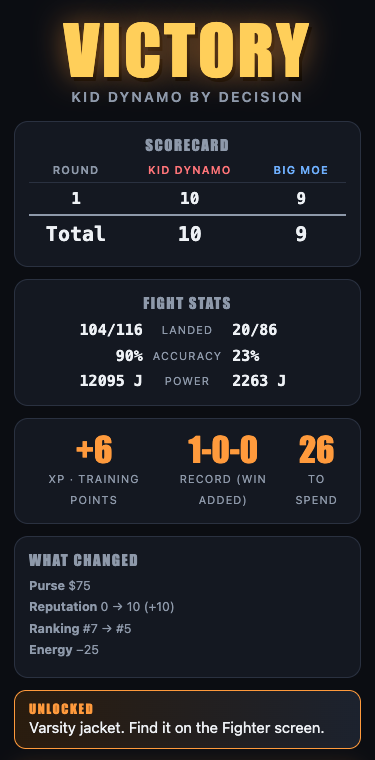
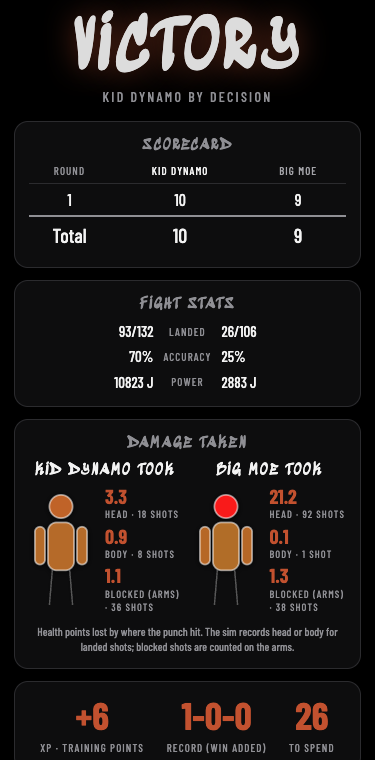
Sync with claude-quest main (BOX-14 slice 1)

diff --git a/index.html b/index.html
@@ -3,7 +3,7 @@
 <head>
 <meta charset="utf-8">
 <meta name="viewport" content="width=device-width, initial-scale=1, viewport-fit=cover">
-<meta name="theme-color" content="#0b0d12">
+<meta name="theme-color" content="#000">
 <meta name="apple-mobile-web-app-capable" content="yes">
 <title>Bring The Ruckus</title>
 <!--
@@ -145,10 +145,10 @@
 
   /* ── Upgrade ── */
   .points-big { text-align: center; padding: 6px 0 14px; }
-  .points-big b { display: block; font: 400 64px/1 var(--display); color: var(--accent); }
+  .points-big b { display: block; font: 700 68px/1 var(--body); color: var(--accent); }
   .urow { display: grid; grid-template-columns: 1fr auto; gap: 4px 12px; align-items: center; padding: 12px 0; border-bottom: 1px solid var(--line); }
   .urow .nm { font: 400 20px var(--display); letter-spacing: .08em; text-transform: uppercase; }
-  .urow .nm span { font: 600 18px var(--mono); color: var(--accent); margin-left: 8px; }
+  .urow .nm span { font: 700 20px var(--body); color: var(--accent); margin-left: 8px; }
   .urow .fx { grid-column: 1; font-size: 12px; color: var(--muted); }
   .urow .bar { grid-column: 1; }
   .urow .btns { grid-column: 2; grid-row: 1 / span 3; display: flex; gap: 8px; }
@@ -178,7 +178,7 @@
   .side { display: grid; gap: 4px; }
   .side.blue { text-align: right; }
   .side .nm { font: 400 19px/1 var(--display); letter-spacing: .07em; text-transform: uppercase; text-shadow: 0 2px 4px #000; white-space: nowrap; overflow: hidden; text-overflow: ellipsis; }
-  .side.red .nm { color: #ff7478; } .side.blue .nm { color: #6fb0ff; }
+  .side.red .nm { color: #f3f3f3; } .side.blue .nm { color: #b4b4b9; }
   .vit { display: flex; align-items: center; gap: 7px; }
   .side.blue .vit { flex-direction: row-reverse; }
   .vit .bars { flex: 1; min-width: 0; display: grid; gap: 4px; }
@@ -193,7 +193,7 @@
   .dmg-grid .who { font: 400 15px var(--display); letter-spacing: .1em; text-transform: uppercase; margin-bottom: 6px; }
   .dmg-fig { display: flex; align-items: center; justify-content: center; gap: 12px; }
   .dmg-list { display: grid; gap: 5px; text-align: left; font-size: 12.5px; }
-  .dmg-list b { font: 400 17px/1 var(--display); color: var(--accent); margin-right: 4px; }
+  .dmg-list b { font: 700 20px/1 var(--body); color: var(--accent); margin-right: 4px; }
   .dmg-list span { display: block; font-size: 10.5px; letter-spacing: .1em; text-transform: uppercase; color: var(--muted); }
   .dmg-note { margin: 10px 0 0; font-size: 11.5px; color: var(--muted); }
   .meter { position: relative; height: 12px; background: rgba(0,0,0,.6); border: 1px solid rgba(255,255,255,.25); border-radius: 3px; overflow: hidden; transform: skewX(-14deg); }
@@ -228,20 +228,20 @@
   #s-result .scroll { padding-top: calc(var(--top) + 18px); text-align: center; }
   .verdict { font: 400 clamp(56px, 18vw, 92px)/.95 var(--display); letter-spacing: .04em; text-transform: uppercase; margin: 0; opacity: 0; animation: pop .55s cubic-bezier(.2,1.4,.4,1) forwards; animation-delay: var(--vd, 0s); }
   .verdict.w { color: var(--accent-2); text-shadow: 0 0 30px rgba(194,81,47,.5), 3px 4px 0 #000; }
-  .verdict.l { color: #ff6b6b; text-shadow: 3px 4px 0 #000; } .verdict.d { color: #c7d0de; text-shadow: 3px 4px 0 #000; }
+  .verdict.l { color: var(--accent); text-shadow: 3px 4px 0 #000; } .verdict.d { color: #c7d0de; text-shadow: 3px 4px 0 #000; }
   .method { font: 600 14px var(--body); letter-spacing: .16em; text-transform: uppercase; color: var(--muted); margin: 6px 0 16px; opacity: 0; animation: fade .4s forwards; animation-delay: var(--vd, 0s); }
   @keyframes pop { from { opacity: 0; transform: scale(1.7) rotate(-4deg); } to { opacity: 1; transform: none; } }
   @keyframes fade { to { opacity: 1; } }
   .cardtbl { width: 100%; border-collapse: collapse; font: 600 16px var(--mono); }
   .cardtbl th { font: 600 11px var(--body); letter-spacing: .1em; text-transform: uppercase; color: var(--muted); padding-bottom: 6px; }
-  .cardtbl th.r { color: #ff7478; } .cardtbl th.b { color: #6fb0ff; }
+  .cardtbl th.r { color: #f3f3f3; } .cardtbl th.b { color: #a4a4a9; }
   .cardtbl td { padding: 6px 0; border-top: 1px solid var(--line); opacity: 0; animation: fade .35s forwards; animation-delay: calc(var(--i) * .55s); }
   .cardtbl tr.tot td { font-size: 20px; border-top: 2px solid var(--muted); animation-delay: calc(var(--i) * .55s + .3s); }
   .stat2 { display: grid; grid-template-columns: 1fr auto 1fr; gap: 6px 10px; font-size: 14px; align-items: center; }
   .stat2 b { font: 600 15px var(--mono); } .stat2 span:nth-child(3n+2) { color: var(--muted); font-size: 11px; letter-spacing: .1em; text-transform: uppercase; }
   .stat2 span:nth-child(3n+1) { text-align: right; } .stat2 span:nth-child(3n) { text-align: left; }
   .reward { display: flex; justify-content: space-around; text-align: center; }
-  .reward b { display: block; font: 400 34px/1 var(--display); color: var(--accent); }
+  .reward b { display: block; font: 700 38px/1 var(--body); color: var(--accent); }
   .reward span { font-size: 11px; letter-spacing: .1em; text-transform: uppercase; color: var(--muted); }
   .unlock { background: linear-gradient(90deg, #2a1c0e, #1c222e); border: 1px solid var(--accent); border-radius: 12px; padding: 10px 14px; margin-bottom: 8px; text-align: left; }
   .unlock b { color: var(--accent); font: 400 13px var(--display); letter-spacing: .12em; text-transform: uppercase; display: block; }
@@ -249,17 +249,17 @@
 
   /* ── Career ── */
   .stat-line { display: flex; justify-content: space-between; gap: 8px; text-align: center; }
-  .stat-line b { display: block; font: 400 26px/1 var(--display); color: var(--accent); }
+  .stat-line b { display: block; font: 700 30px/1 var(--body); color: var(--accent); }
   .stat-line span { font-size: 10.5px; letter-spacing: .1em; text-transform: uppercase; color: var(--muted); }
   .energy { height: 10px; border-radius: 5px; background: var(--panel-2); overflow: hidden; margin: 12px 0 6px; }
-  .energy i { display: block; height: 100%; background: linear-gradient(90deg, #d9a12b, #3fb950); }
+  .energy i { display: block; height: 100%; background: linear-gradient(90deg, #8f8f94, #f3f3f3); }
   .cond { font-size: 12.5px; color: var(--muted); } .cond.bad { color: #ff9a7a; }
   .week-h { display: flex; justify-content: space-between; align-items: baseline; margin: 16px 0 8px; font: 400 15px var(--display); letter-spacing: .1em; text-transform: uppercase; color: var(--muted); }
   .offer { display: grid; grid-template-columns: 64px 1fr auto; gap: 12px; align-items: center; width: 100%; text-align: left; padding: 10px; margin-bottom: 10px; background: var(--panel); border: 2px solid var(--line); border-radius: 14px; min-height: 84px; }
   .offer .avatar { width: 64px; height: 64px; font-size: 32px; }
   .offer .nm { font: 400 20px/1.1 var(--display); letter-spacing: .06em; text-transform: uppercase; }
   .offer .meta { font-size: 12px; color: var(--muted); }
-  .offer .purse { font: 400 22px var(--display); color: var(--accent-2); text-align: right; }
+  .offer .purse { font: 700 26px var(--body); color: var(--accent-2); text-align: right; }
   .offer.rival { border-color: var(--red); }
   .tagpill { display: inline-block; font: 700 9px var(--body); letter-spacing: .1em; padding: 2px 7px; border-radius: 999px; background: var(--red); color: #fff; margin-left: 6px; vertical-align: middle; text-transform: uppercase; }
   .tagpill.gold { background: var(--accent); color: #1b1004; }
@@ -276,9 +276,9 @@
   .poster .avatar { width: min(34vw, 130px); height: min(34vw, 130px); margin: 0 auto 8px; font-size: 56px; }
   .poster .nm { font: 400 22px/1.1 var(--display); letter-spacing: .05em; text-transform: uppercase; }
   .poster .rec { font: 600 13px var(--mono); color: var(--muted); }
-  .poster .purse-big { font: 400 54px/1 var(--display); color: var(--accent-2); margin: 18px 0 2px; }
+  .poster .purse-big { font: 700 64px/1 var(--body); color: var(--accent-2); margin: 18px 0 2px; }
   .drill-bar { position: relative; height: 64px; border-radius: 12px; border: 2px solid var(--line); overflow: hidden; margin: 14px 0;
-    background: linear-gradient(90deg, #2b1a1a 0, #2b1a1a 15%, #3a3417 15%, #3a3417 32.5%, #6b5a1d 32.5%, #6b5a1d 44%, #d9a12b 44%, #d9a12b 56%, #6b5a1d 56%, #6b5a1d 67.5%, #3a3417 67.5%, #3a3417 85%, #2b1a1a 85%); }
+    background: linear-gradient(90deg, #2b1a1a 0, #2b1a1a 15%, #3a3417 15%, #3a3417 32.5%, #3c3c40 32.5%, #3c3c40 44%, #d9a12b 44%, #d9a12b 56%, #3c3c40 56%, #3c3c40 67.5%, #3a3417 67.5%, #3a3417 85%, #2b1a1a 85%); }
   .drill-bar .mk { position: absolute; top: 0; bottom: 0; width: 6px; margin-left: -3px; background: #fff; box-shadow: 0 0 10px #fff; }
   .bag { width: 74px; height: 130px; margin: 6px auto 0; border-radius: 22px; background: linear-gradient(90deg, #5b1d1d, #a73535 45%, #5b1d1d); border: 2px solid #2a0d0d; position: relative; transform-origin: 50% -30px; }
   .bag::before { content: ''; position: absolute; left: 50%; top: -36px; width: 3px; height: 36px; background: #777; }
@@ -847,13 +847,13 @@ $('camp-reset').onclick = () => { state.pending = null; renderUpgrade(); };
 // ─── Opponents ──────────────────────────────────────────────────────────────
 
 const ARCHETYPES = {
-  slugger:    { name: 'Iron Mauler',   style: 'Heavy hands, slow feet. One shot changes the night.', stats: { speed: 38, power: 82, stamina: 55, ringIQ: 42 }, tint: '#6b1d22',
+  slugger:    { name: 'Iron Mauler',   style: 'Heavy hands, slow feet. One shot changes the night.', stats: { speed: 38, power: 82, stamina: 55, ringIQ: 42 }, tint: '#4a4a4e',
     look: { topStyle: 'tank', top: '#16171a', jeans: '#1d1e22', boots: 'timbs', cap: null, chain: true, wraps: '#16171a', skin: 'deep' } },
-  speedster:  { name: 'Quicksilver',   style: 'Flurries from every angle. Hard to catch.', stats: { speed: 84, power: 40, stamina: 60, ringIQ: 55 }, tint: '#6b5a1d',
+  speedster:  { name: 'Quicksilver',   style: 'Flurries from every angle. Hard to catch.', stats: { speed: 84, power: 40, stamina: 60, ringIQ: 55 }, tint: '#3c3c40',
     look: { topStyle: 'tee', top: '#c9a227', jeans: '#2f3b52', boots: 'sneakers', cap: '#16171a', capBackwards: false, chain: false, wraps: '#ecebe6', skin: 'medium' } },
-  technician: { name: 'The Professor', style: 'Reads you like a book and counters everything.', stats: { speed: 58, power: 50, stamina: 52, ringIQ: 82 }, tint: '#1d3a6b',
+  technician: { name: 'The Professor', style: 'Reads you like a book and counters everything.', stats: { speed: 58, power: 50, stamina: 52, ringIQ: 82 }, tint: '#58585d',
     look: { topStyle: 'hoodie', top: '#8a8f96', jeans: '#4f6b8f', boots: 'sneakers', cap: null, chain: false, wraps: '#2f6fd0', skin: 'light' } },
-  grinder:    { name: 'Diesel Dean',   style: 'Never tires. Wears you down in the late rounds.', stats: { speed: 48, power: 55, stamina: 85, ringIQ: 45 }, tint: '#1d5a3a',
+  grinder:    { name: 'Diesel Dean',   style: 'Never tires. Wears you down in the late rounds.', stats: { speed: 48, power: 55, stamina: 85, ringIQ: 45 }, tint: '#2f2f33',
     look: { topStyle: 'varsity', top: '#3d5a3a', sleeve: '#c9c6bf', jeans: '#2f3b52', boots: 'timbs', cap: '#3d5a3a', capBackwards: true, chain: true, wraps: '#d9a12b', skin: 'medium' } },
 };
 const opponentOf = (key) => (key === 'mirror'
@@ -869,7 +869,7 @@ function renderOpponents() {
       bar.firstChild.style.width = `${o.stats[s]}%`;
       return el('div', { className: 'mini' }, el('span', { textContent: STAT_LABEL[s] }), bar);
     });
-    const avatar = el('div', { className: 'avatar', style: `background:linear-gradient(160deg, ${o.tint}, #0b0d12)` }, o.name[0]);
+    const avatar = el('div', { className: 'avatar', style: `background:linear-gradient(160deg, ${o.tint}, #000)` }, o.name[0]);
     return el('button', { className: 'opp', type: 'button', ariaPressed: String(state.opp === k), onclick: () => { state.opp = k; sfx.click(); renderOpponents(); } },
       avatar,
       el('div', {}, el('div', { className: 'nm', textContent: o.name }), el('div', { className: 'style', textContent: o.style }), ...mini));
@@ -1167,8 +1167,8 @@ function damageCard(r) {
 // ─── Career ─────────────────────────────────────────────────────────────────
 
 const money = (n) => `$${n.toLocaleString('en-US')}`;
-const portrait = (o) => el('div', { className: 'avatar', style: `background:linear-gradient(160deg, ${LOOK_TINT[o.arch] ?? '#4a4a55'}, #0b0d12)` }, o.name[0]);
-const LOOK_TINT = { slugger: '#6b1d22', speedster: '#6b5a1d', technician: '#1d3a6b', grinder: '#1d5a3a' };
+const portrait = (o) => el('div', { className: 'avatar', style: `background:linear-gradient(160deg, ${LOOK_TINT[o.arch] ?? '#4a4a55'}, #000)` }, o.name[0]);
+const LOOK_TINT = { slugger: '#4a4a4e', speedster: '#3c3c40', technician: '#58585d', grinder: '#2f2f33' };
 const saveCareer = () => db.saveFighter(state.fighter).then(() => { state.hasSaved = true; });
 
 function offerButton(o) {
@@ -1241,7 +1241,7 @@ function renderCard() {
     el('div', { className: 'tier', textContent: `${o.tierName}${o.title ? ' · title fight' : ''}${o.rival ? ' · rematch' : ''}` }),
     el('div', { className: 'venue', textContent: `${o.venue} · ${o.rounds} round${o.rounds > 1 ? 's' : ''}` }),
     el('div', { className: 'vs' },
-      el('div', {}, el('div', { className: 'avatar', style: 'background:linear-gradient(160deg,#6b1d22,#0b0d12)' }, state.fighter.name[0]), el('div', { className: 'nm', textContent: state.fighter.name }), el('div', { className: 'rec', textContent: recordText(state.fighter.record) })),
+      el('div', {}, el('div', { className: 'avatar', style: 'background:linear-gradient(160deg,#3a2220,#000)' }, state.fighter.name[0]), el('div', { className: 'nm', textContent: state.fighter.name }), el('div', { className: 'rec', textContent: recordText(state.fighter.record) })),
       el('b', { textContent: 'VS' }),
       el('div', {}, portrait(o), el('div', { className: 'nm', textContent: o.name }), el('div', { className: 'rec', textContent: `${o.record.w}-${o.record.l}-0` }))),
     el('div', { className: 'purse-big', textContent: money(o.purse) }),

diff --git a/HANDOFF.md b/HANDOFF.md
@@ -343,3 +343,6 @@ User style direction applied to the whole UI. Sedgwick Ave Display (graffiti: lo
 ## Done (2026-10-04): damage on screen, BOX-9 first slice (Boxing UI Dev)
 The sim records only `target` ('head'/'body') and `outcome` per punch (the `ZONE` in `physics-engine.js` is the ropes zone), so no sim change: zones are derived from those. Landed head shots -> head, landed body shots -> body, blocked shots -> arms ("Blocked"); slips hit nothing. `flow.js`: `zoneOf`, `emptyDamage`, `recordDamage`, `zoneHeat` (pure, tested). `index.html`: `silhouette()` / `paintSilhouette()`; each fighter's HUD has a small figure beside the bars whose zones tint amber to red and pulse on each hit (listens to `impact`, never writes the sim); the result screen has a "Damage taken" card with a big figure and health points and shots per zone for both fighters. Tally is reset per fight and stored in `state.result.damage`. `npm test` 271 pass; `demo-e2e.mjs` clean (new `qa/game-7b-fight-damage-*.png`, `game-8-result-*.png`).
 - Not built yet from BOX-9: between-rounds stats screen, per-round breakdown, punches by type, AI corner timeline. **Untested**: night HUD by eye, real phone, reduced-motion.
+
+### Style pass follow-up (2026-10-04)
+Eyeballed hub, gym, fight card, corner and result at 375 px (career-e2e screenshots) and fixed leftovers: energy bar, archetype portrait tints, blue/red corner names and table headers now grey/white, all big numbers (purse, money, XP, record, damage) use Barlow Condensed bold instead of the graffiti face. Left as is: damage figure heat colours (functional). Still unchecked: real phone, Safari.
